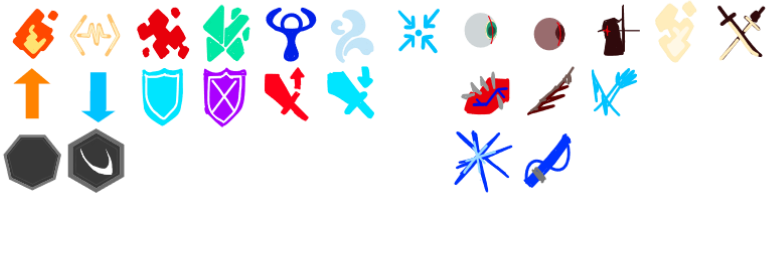
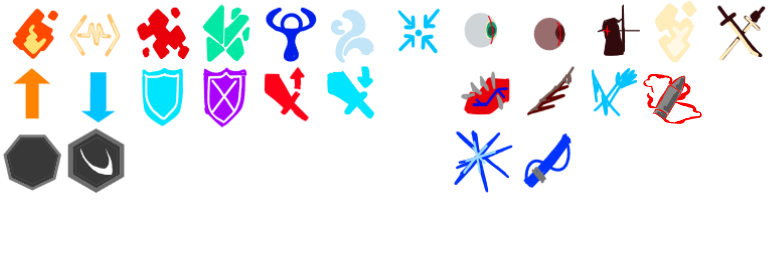
imago

Changed region(s): [[0.8125, 0.2812, 0.9375, 0.5]]

diff --git a/public/characters.js b/public/characters.js
@@ -254,7 +254,10 @@ const STATUS_SPRITES = {
   "Damage Down": { atlas:"status", x:5, y:1, w:1, h:1 },
   "Corpus Ingredient": { atlas:"status", x:7, y:1, w:1, h:1 },
   "Artwork Tibia": { atlas:"status", x:8, y:1, w:1, h:1 },
-  "Ingredient Shredding Wound": { atlas:"status", x:9, y:1, w:1, h:1 }
+  "Ingredient Shredding Wound": { atlas:"status", x:9, y:1, w:1, h:1 },
+   "Acceration Round": { atlas:"status", x:10, y:1, w:1, h:1 },
+    "Bladetrail Afterimage": { atlas:"status", x:7, y:2, w:1, h:1 },
+     "Dihui Star's Blade": { atlas:"status", x:8, y:2, w:1, h:1 }
 };
 const STATUS_CELL = 64;
 